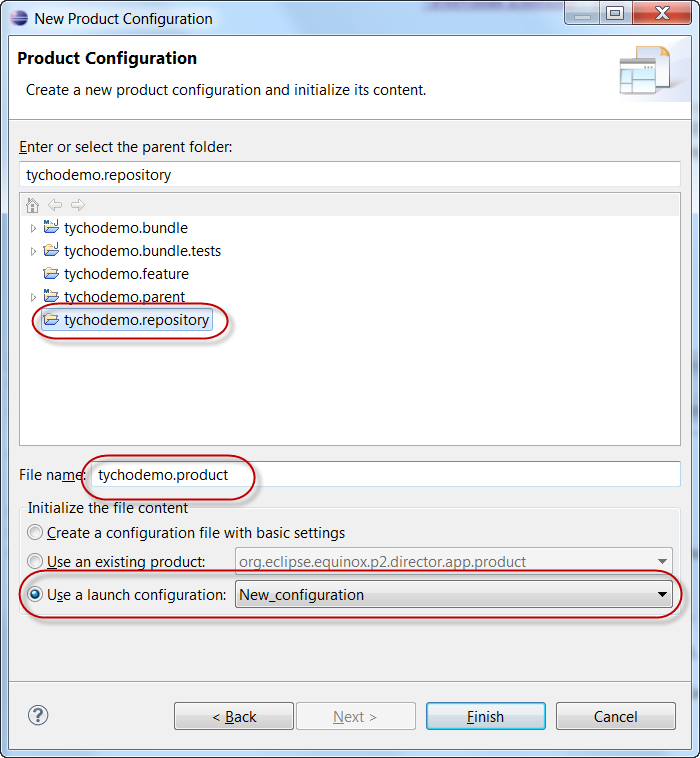
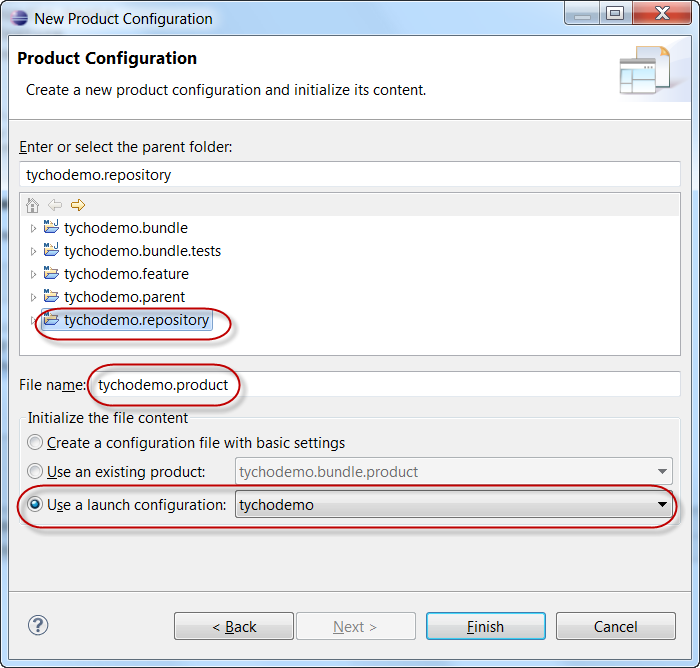
Add .launch files
plus minor fixes/clarifications in READMEs

diff --git a/exercises/Exercise_05_Add_Product/tychodemo.parent/README.html b/exercises/Exercise_05_Add_Product/tychodemo.parent/README.html
@@ -31,7 +31,7 @@
    
 <li> In the <tt>tychodemo.repository</tt> project root folder, create a new .product file:
   <ol>
-  <li> File > New >  Product Configuration<br/>
+  <li> File > New > Other > Plug-in Development > Product Configuration<br/>
   <img src="../resources/new_product.png"/>
   </li>
   <li> File name: "tychodemo.product"</li>
@@ -74,11 +74,13 @@
 	  </ol>
   </li>
   <li> CAVEAT: due to a <a href="https://bugs.eclipse.org/bugs/show_bug.cgi?id=359090">bug</a> 
-    you have to make sure that there is no lt;plugins&gt; section in your feature-based
+    you have to make sure that there is no &lt;plugins&gt; section in your feature-based
     product. Right-click <tt>tychodemo.product > Open with > Text editor</tt>
     Delete the &lt;plugins&gt; section if found.
 	<br/>
-  <img src="../resources/product_remove_plugins.png"/>
+  <img src="../resources/product_remove_plugins.png"/><br/>
+  Even if the build succeeds, look out for messages like this in your build log:<br/>
+  <img src="../resources/product_mixed_problem.png"/>
   </li>
   <li>Note the product is being built as part of the existing packaging type "eclipse-repository".
   This is not intuitive and there will be a dedicated packaging type for p2-updatable 

diff --git a/exercises/Exercise_04_Add_P2_Repository/tychodemo.parent/README.html b/exercises/Exercise_04_Add_P2_Repository/tychodemo.parent/README.html
@@ -27,7 +27,7 @@ A p2 repository is the format in which we publish installations/updates of our R
    </pre>
 </li>
 <li>Create a new update site project <tt>tychodemo.repository</tt><br/>
-<tt>File > New > Project > Update Site Project</tt><br/>
+<tt>File > New > Other > Plug-in Development > Update Site Project</tt><br/>
   Note: Make sure the new project root folder is located next to the existing module folders
         (Uncheck "Use default location" in the project creation wizard and enter location if necessary)
 		<br/>
@@ -86,7 +86,7 @@ A p2 repository is the format in which we publish installations/updates of our R
    <li>Choose your local  <a href="../tychodemo.repository/target/repository/"><tt>tychodemo.repository/target/repository/</tt></a> folder.</li>
   
   <li>Now the demo category and feature created in the previous step should show up in the
-  p2 installer UI:</li>
+  p2 installer UI. Press <tt>Cancel</tt> as we only want to check if the p2 repository is valid and don't want to install.</li>
   </ul>
   		<img src="../resources/test_p2_repo.png"/>
 </li>

diff --git a/exercises/Exercise_03_Add_Feature/tychodemo.parent/README.html b/exercises/Exercise_03_Add_Feature/tychodemo.parent/README.html
@@ -28,7 +28,7 @@ A feature is needed in order to include content into a p2 repository.<br/>
    </li>
 
 <li>Create a new feature project <tt>tychodemo.feature</tt> and add <tt>tychodemo.bundle</tt> as included plugin:<br/>
-<tt>File > New > Project > Feature Project</tt><br/>
+<tt>File > New > Other > Plug-in Development > Feature Project</tt><br/>
 <img src="../resources/new_feature.png"/><br/>
 <img src="../resources/feature_name.png"/><br/>
 <img src="../resources/feature_include_bundle.png"/><br/>
